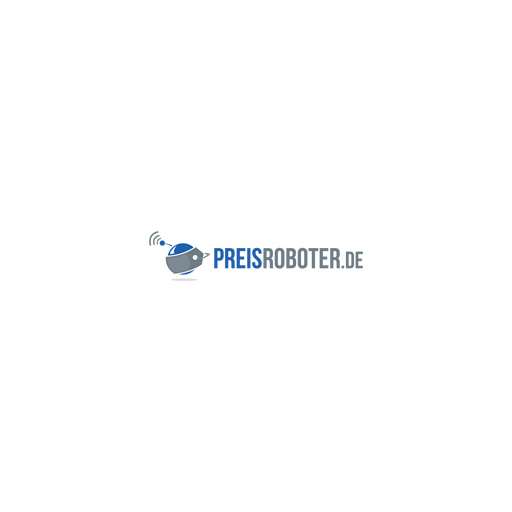
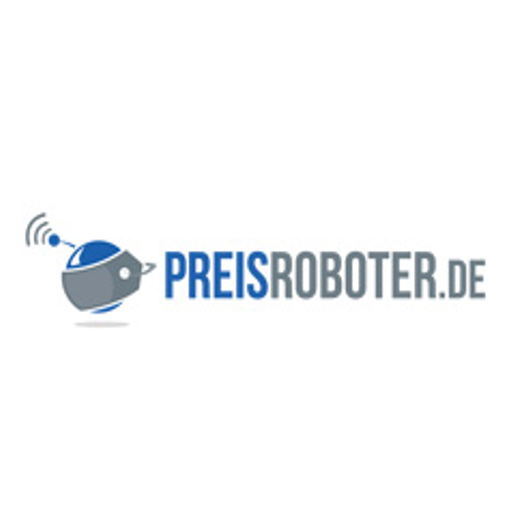
adjusted image size

Changed region(s): [[0.0312, 0.4062, 0.9688, 0.6562]]

diff --git a/meta/documents/changelog_de.md b/meta/documents/changelog_de.md
@@ -1,5 +1,8 @@
 # Release Notes für Elastic Export PreisRoboter.de
 
+## v1.0.3 (2017-03-10)
+- Image größe angepasst
+
 ## v1.0.2 (2017-03-03)
 - Die ResultFields wurden angepasst, sodass der imageMutator nicht mehr greift falls "ALLE" als Referrer ausgewählt wurde
 

diff --git a/meta/documents/changelog_en.md b/meta/documents/changelog_en.md
@@ -1,5 +1,8 @@
 # Release Notes for Elastic Export PreisRoboter.de
 
+## v1.0.3 (2017-03-10)
+- Adjusted image size
+
 ## v1.0.2 (2017-03-03)
 - Adjustment for the ResultField, so the imageMutator does not affect the image outcome anymore if the referrer "ALL" is set
 
